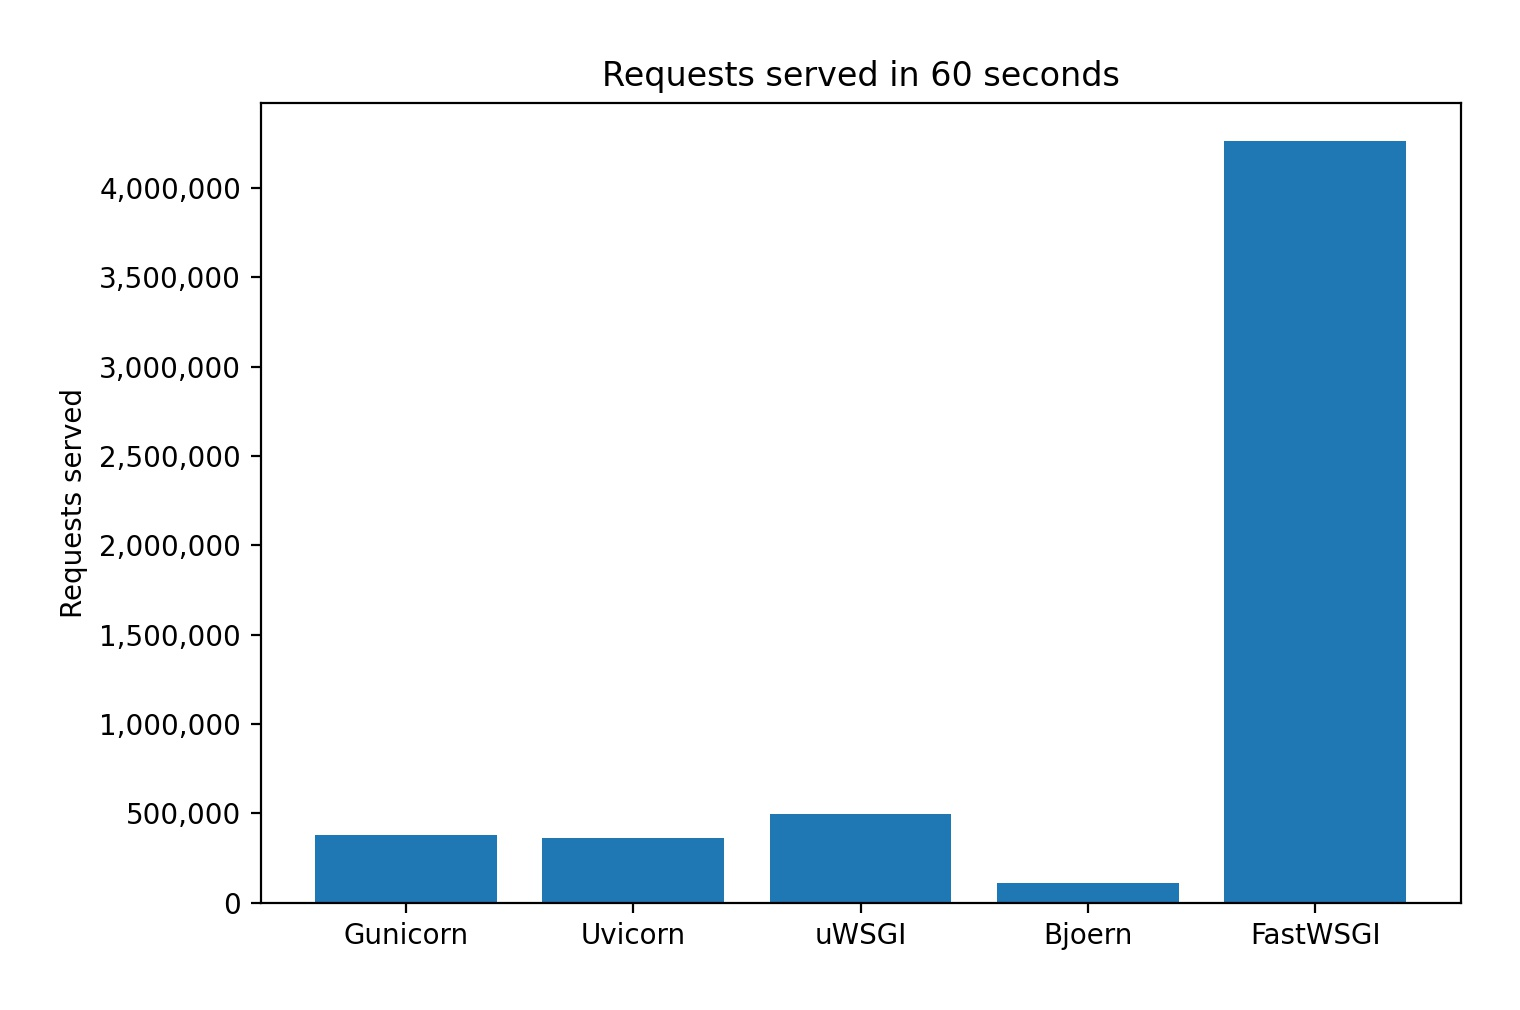
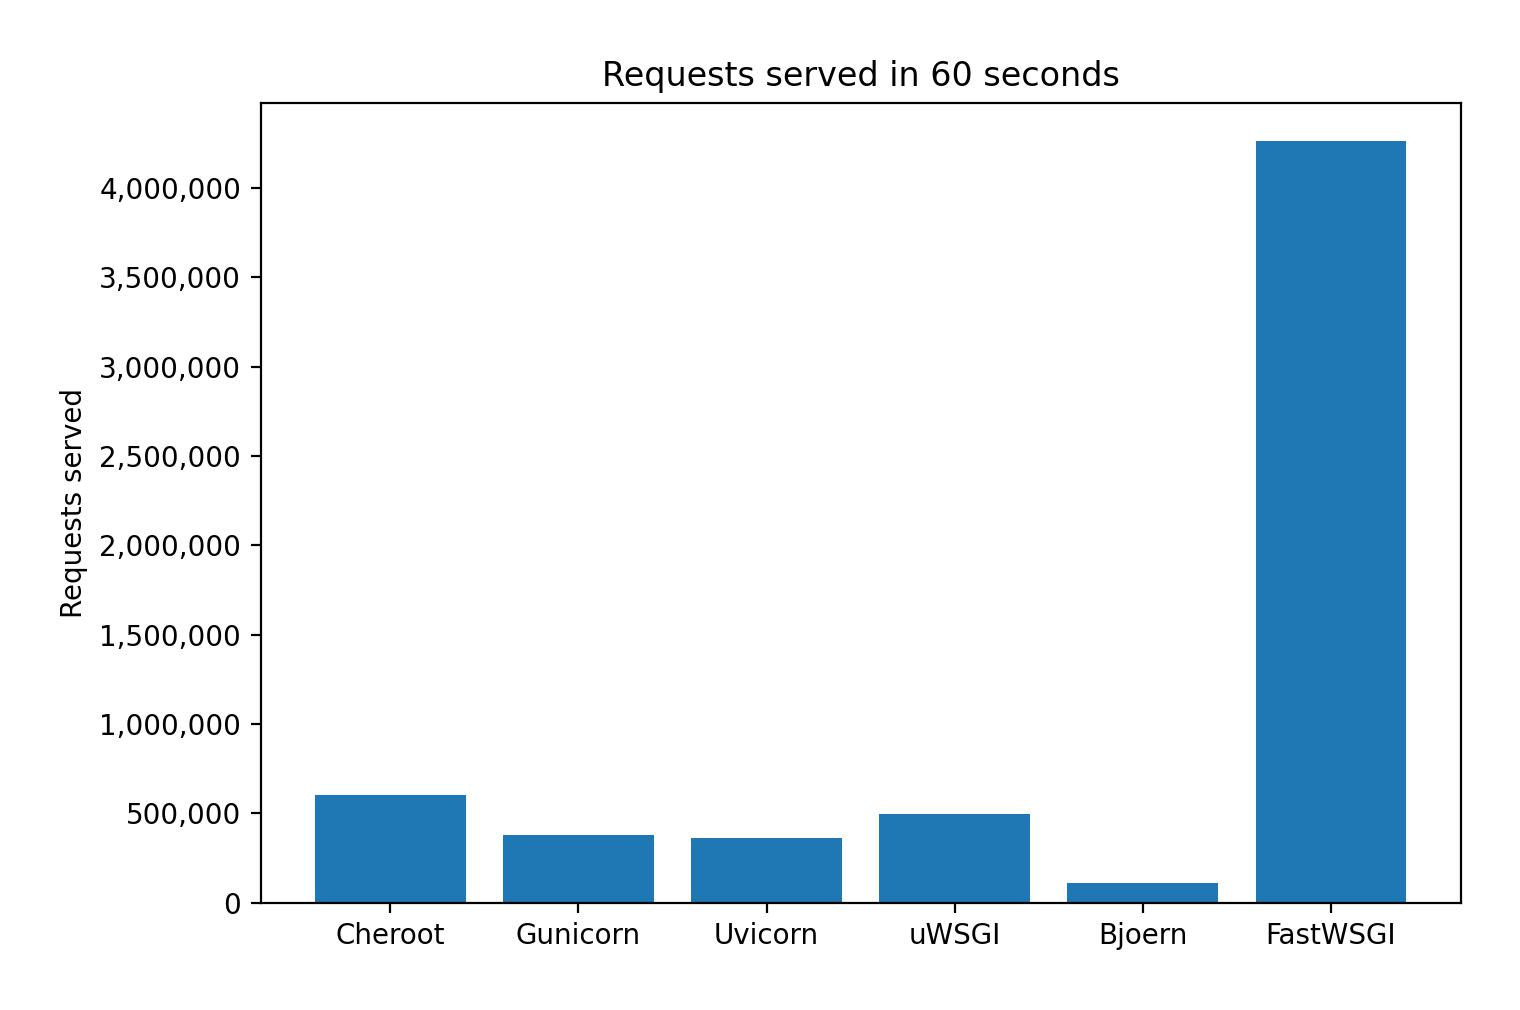
feat: add cheroot WSGI to benchmarks

diff --git a/performance_benchmarks/servers/cheroot_wsgi.py b/performance_benchmarks/servers/cheroot_wsgi.py
@@ -1,0 +1,17 @@
+"""
+Adapted from https://github.com/cherrypy/cheroot/blob/master/cheroot/test/test_wsgi.py
+"""
+
+from cheroot import wsgi
+
+def simple_wsgi_server():
+    def app(_environ, start_response):
+        status = '200 OK'
+        response_headers = [('Content-type', 'text/plain')]
+        start_response(status, response_headers)
+        return [b'Hello world!']
+    server = wsgi.Server(("localhost", 8080), app, timeout=100)
+    return server
+
+server = simple_wsgi_server()
+server.start()

diff --git a/performance_benchmarks/generate_figures.py b/performance_benchmarks/generate_figures.py
@@ -57,6 +57,7 @@ flask_benchmarks = {
 }
 
 wsgi_benchmarks = {
+    "Cheroot": "results/cheroot_wsgi_results.txt",
     "Gunicorn": "results/gunicorn_wsgi_results.txt",
     "Uvicorn": "results/uvicorn_asgi_results.txt",
     "uWSGI": "results/basic_uwsgi_results.txt",
